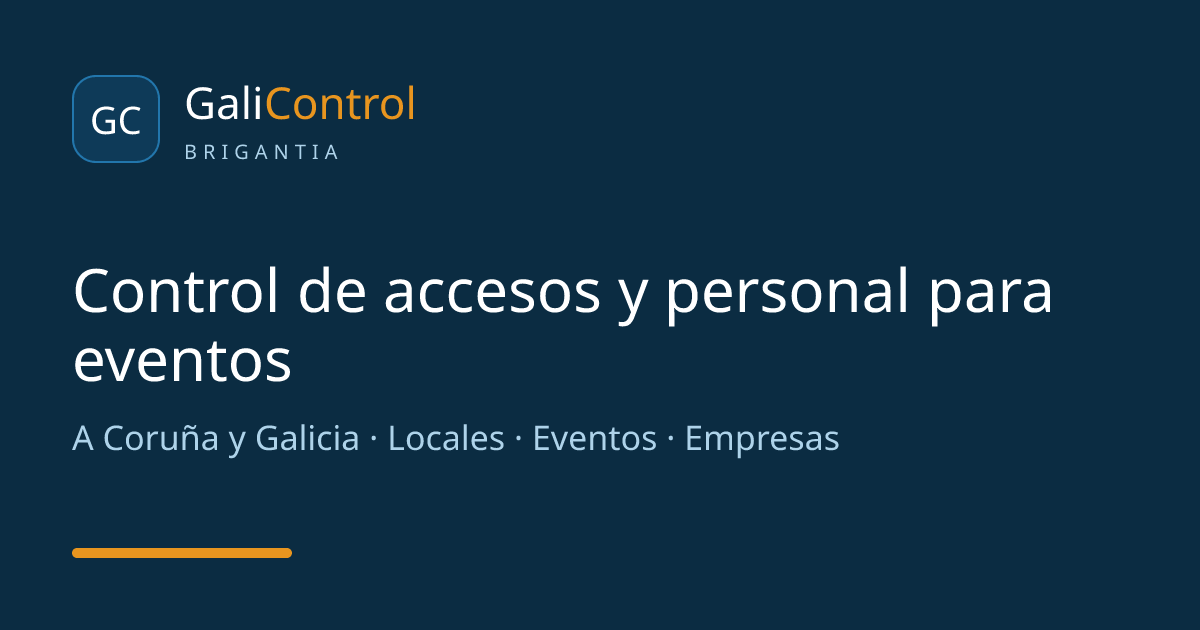
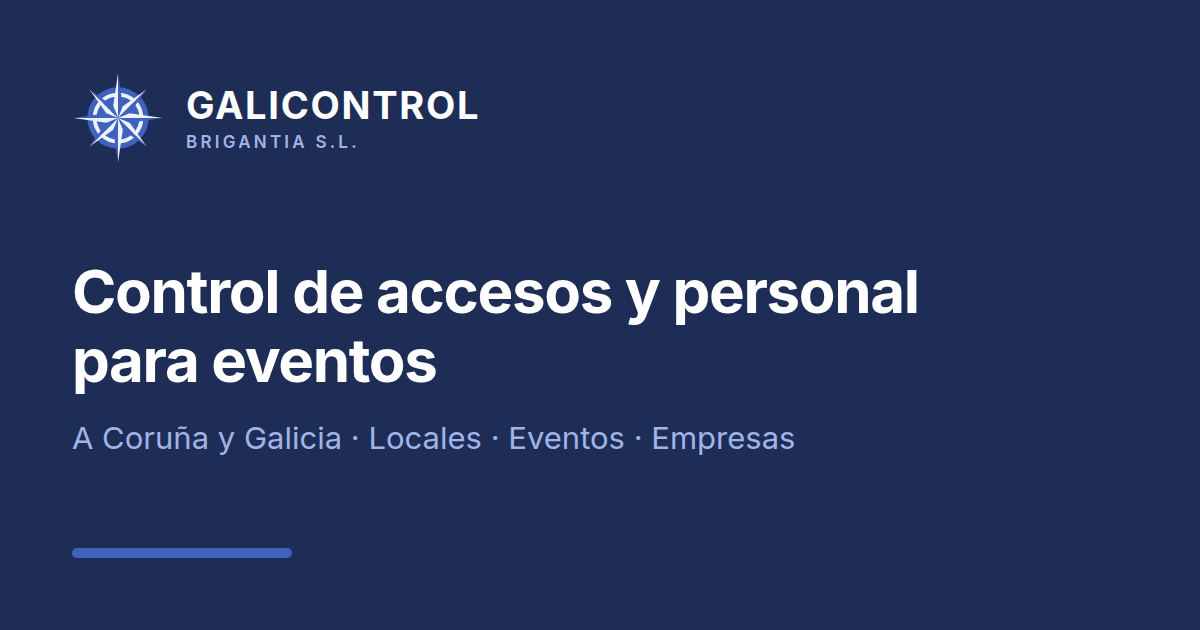
Integrar la identidad real de la marca y el teléfono de contacto
- Rosa de los vientos del logotipo redibujada como SVG en línea: nítida a
  cualquier tamaño, válida sobre fondo claro y oscuro y sin peticiones extra.
  También disponible suelta en public/logo-marca.svg y como favicon.
- Paleta reconstruida a partir del azul del logotipo (#3F62BE). El ámbar queda
  como acento funcional en el botón de envío y el CTA del menú móvil, marcado
  como tal para poder eliminarlo con un solo cambio.
- Teléfono y WhatsApp reales (+34 626 58 81 72) como valores por defecto, de
  modo que la web funciona sin configurar nada en Vercel.
- Imagen de compartir regenerada con la marca definitiva.
- Soporte para la verificación de Google Search Console por variable de
  entorno; si está vacía no se imprime nada en el HTML.
- Contraste: verde de WhatsApp de #128C7E a #0F7A6D (4.14:1 -> 5.22:1) y
  antetítulos de brand-500 a brand-600 para cumplir AA también sobre fondo
  azul claro.

Claude-Session: https://claude.ai/code/session_01E8BbFr5m9gUPfGNd7GGnMh

diff --git a/src/components/Logo.tsx b/src/components/Logo.tsx
@@ -3,19 +3,49 @@ import Link from "next/link";
 import { site } from "@/config/site";
 
 /**
- * LOGO DE GALICONTROL
+ * LOGO DE GALICONTROL BRIGANTIA
  * ---------------------------------------------------------------------------
- * Marca provisional construida con HTML+CSS para que se vea nítida en
- * cualquier pantalla mientras no esté disponible el archivo original.
+ * La rosa de los vientos es el isotipo de la marca, redibujado como SVG en
+ * línea: se ve nítido a cualquier tamaño, funciona sobre fondo claro y oscuro
+ * y no genera ninguna petición extra (importa para el LCP de la portada).
  *
- * PARA PONER EL LOGO REAL:
- *   1. Copia el archivo a `public/logo.svg` (o .png).
- *   2. Sustituye el contenido de <LogoMark /> por:
- *        <Image src="/logo.svg" alt="GaliControl Brigantia" width={200}
- *               height={48} priority className="h-10 w-auto" />
- *      importando `Image` desde "next/image".
- * El resto de la web no necesita ningún cambio.
+ * Si en algún momento se dispone del logotipo horizontal original en SVG o PNG
+ * con fondo transparente, basta con dejarlo en `public/logo.svg` y sustituir el
+ * contenido de <LogoMark /> por:
+ *   <Image src="/logo.svg" alt="GaliControl Brigantia" width={220} height={48}
+ *          priority className="h-11 w-auto" />
+ * (importando `Image` desde "next/image"). El resto de la web no cambia.
+ *
+ * Los colores salen de los tokens `--color-brand-*` de globals.css, tomados
+ * del propio logo.
  */
+
+const MARK_LIGHT = "M60.00 2.00L53.69 44.76L60.00 60.00ZM97.48 22.52L66.31 44.76L60.00 60.00ZM118.00 60.00L75.24 53.69L60.00 60.00ZM97.48 97.48L75.24 66.31L60.00 60.00ZM60.00 118.00L66.31 75.24L60.00 60.00ZM22.52 97.48L53.69 75.24L60.00 60.00ZM2.00 60.00L44.76 66.31L60.00 60.00ZM22.52 22.52L44.76 53.69L60.00 60.00Z";
+const MARK_BLUE = "M60.00 2.00L66.31 44.76L60.00 60.00ZM97.48 22.52L75.24 53.69L60.00 60.00ZM118.00 60.00L75.24 66.31L60.00 60.00ZM97.48 97.48L66.31 75.24L60.00 60.00ZM60.00 118.00L53.69 75.24L60.00 60.00ZM22.52 97.48L44.76 66.31L60.00 60.00ZM2.00 60.00L44.76 53.69L60.00 60.00ZM22.52 22.52L53.69 44.76L60.00 60.00Z";
+
+/** Rosa de los vientos de la marca. */
+export function CompassMark({ className = "" }: { className?: string }) {
+  return (
+    <svg
+      viewBox="0 0 120 120"
+      aria-hidden="true"
+      focusable="false"
+      className={className}
+    >
+      <circle cx="60" cy="60" r="40.00" fill="var(--color-brand-600)" />
+      <circle
+        cx="60"
+        cy="60"
+        r="30.50"
+        fill="none"
+        stroke="var(--color-brand-50)"
+        strokeWidth="5.00"
+      />
+      <path d={MARK_LIGHT} fill="var(--color-brand-50)" />
+      <path d={MARK_BLUE} fill="var(--color-brand-600)" />
+    </svg>
+  );
+}
 
 type LogoProps = {
   /** Variante de color: sobre fondo claro u oscuro. */
@@ -24,25 +54,22 @@ type LogoProps = {
 };
 
 export function LogoMark({ tone = "light", className = "" }: LogoProps) {
-  const wordColor = tone === "dark" ? "text-white" : "text-brand-800";
-  const subColor = tone === "dark" ? "text-brand-200" : "text-brand-600";
+  const wordColor = tone === "dark" ? "text-white" : "text-brand-900";
+  const subColor = tone === "dark" ? "text-brand-300" : "text-brand-600";
 
   return (
     <span className={`inline-flex items-center gap-2.5 ${className}`}>
-      <span
-        aria-hidden="true"
-        className="grid h-10 w-10 shrink-0 place-items-center rounded-xl bg-brand-800 text-[0.95rem] font-bold tracking-tight text-white shadow-sm"
-      >
-        GC
-      </span>
+      <CompassMark className="h-11 w-11 shrink-0" />
       <span className="flex flex-col leading-none">
-        <span className={`text-lg font-bold tracking-tight ${wordColor}`}>
-          Gali<span className="text-accent-500">Control</span>
+        <span
+          className={`text-[1.05rem] font-bold uppercase tracking-[0.045em] sm:text-[1.15rem] ${wordColor}`}
+        >
+          Galicontrol
         </span>
         <span
-          className={`mt-1 text-[0.6rem] font-semibold uppercase tracking-[0.18em] ${subColor}`}
+          className={`mt-1.5 text-[0.58rem] font-semibold uppercase tracking-[0.19em] ${subColor}`}
         >
-          Brigantia
+          Brigantia S.L.
         </span>
       </span>
     </span>

diff --git a/src/config/site.ts b/src/config/site.ts
@@ -18,10 +18,9 @@ export function isPending(value: string | undefined | null): boolean {
 }
 
 /** Teléfono en formato internacional sin espacios: +34XXXXXXXXX */
-const phoneE164 = process.env.NEXT_PUBLIC_PHONE ?? "PENDIENTE_TELEFONO";
+const phoneE164 = process.env.NEXT_PUBLIC_PHONE ?? "+34626588172";
 /** WhatsApp en formato wa.me: solo dígitos con prefijo país, p.ej. 34600000000 */
-const whatsappNumber =
-  process.env.NEXT_PUBLIC_WHATSAPP ?? "PENDIENTE_WHATSAPP";
+const whatsappNumber = process.env.NEXT_PUBLIC_WHATSAPP ?? "34626588172";
 const email = process.env.NEXT_PUBLIC_EMAIL ?? "PENDIENTE_EMAIL";
 const siteUrl = (
   process.env.NEXT_PUBLIC_SITE_URL ?? "https://galicontrolbrigantia.es"
@@ -44,7 +43,7 @@ export const site = {
   /** Razón social (facturación y avisos legales). */
   legalName: "GALICONTROL BRIGANTIA SL",
   /** CIF: pendiente de facilitar. Se muestra en el aviso legal cuando exista. */
-  taxId: "PENDIENTE_CIF",
+  taxId: process.env.NEXT_PUBLIC_TAX_ID ?? "PENDIENTE_CIF",
 
   tagline:
     "Control de accesos y personal auxiliar para eventos, locales y empresas en A Coruña y Galicia.",
@@ -93,6 +92,14 @@ export const site = {
 export const socialProfiles: string[] = Object.values(site.social).filter(
   (v) => !isPending(v),
 );
+
+/**
+ * Código de verificación de Google Search Console (la cadena de la etiqueta
+ * `google-site-verification`, no la etiqueta entera). Se define en Vercel como
+ * NEXT_PUBLIC_GSC_VERIFICATION. Si está vacío no se imprime nada.
+ */
+export const googleSiteVerification =
+  process.env.NEXT_PUBLIC_GSC_VERIFICATION ?? "";
 
 export const hasPhone = !isPending(site.contact.phone);
 export const hasWhatsapp = !isPending(site.contact.whatsapp);

diff --git a/src/app/globals.css b/src/app/globals.css
@@ -3,23 +3,27 @@
 /*
  * PALETA CORPORATIVA
  * -------------------------------------------------------------------------
- * Estos valores son la identidad provisional de GaliControl mientras no se
- * incorpore la paleta exacta del logo original. Para cambiar los colores de
- * TODA la web basta con editar los tokens de este bloque.
+ * Escala construida a partir del azul del logotipo de GaliControl. Para
+ * cambiar los colores de TODA la web basta con editar los tokens de este
+ * bloque: ningún componente define colores de marca por su cuenta.
  */
 @theme {
-  --color-brand-50: #eef6fb;
-  --color-brand-100: #d7e9f5;
-  --color-brand-200: #aed3ea;
-  --color-brand-300: #7ab5da;
-  --color-brand-400: #4794c6;
-  --color-brand-500: #2276ac;
-  --color-brand-600: #175d8c;
-  --color-brand-700: #124a70;
-  --color-brand-800: #0e3a58;
-  --color-brand-900: #0b2c42;
-  --color-brand-950: #071c2b;
+  /* Azul del logotipo de GaliControl (#3F62BE) y su escala derivada. */
+  --color-brand-50: #f2f5fd;
+  --color-brand-100: #e3e9fa;
+  --color-brand-200: #c8d4f3;
+  --color-brand-300: #a0b4e8;
+  --color-brand-400: #748fd6;
+  --color-brand-500: #506cc7;
+  --color-brand-600: #3f62be;
+  --color-brand-700: #34509d;
+  --color-brand-800: #2b407a;
+  --color-brand-900: #1e2d55;
+  --color-brand-950: #121b34;
 
+  /* Acento cálido. No pertenece al logotipo: se usa solo en el botón de
+     envío y en el CTA del menú móvil, donde el contraste mejora la
+     conversión. Para eliminarlo, iguala estos tokens a los de brand. */
   --color-accent-100: #fdefd6;
   --color-accent-200: #fadfae;
   --color-accent-300: #f7c877;

diff --git a/src/app/presupuesto/page.tsx b/src/app/presupuesto/page.tsx
@@ -111,7 +111,7 @@ export default async function PresupuestoPage({
                 <li className="flex items-start gap-3">
                   <PhoneCall
                     aria-hidden="true"
-                    className="mt-0.5 h-5 w-5 shrink-0 text-brand-500"
+                    className="mt-0.5 h-5 w-5 shrink-0 text-brand-600"
                   />
                   <span>
                     Te contactamos para concretar los detalles que falten.
@@ -120,7 +120,7 @@ export default async function PresupuestoPage({
                 <li className="flex items-start gap-3">
                   <Clock
                     aria-hidden="true"
-                    className="mt-0.5 h-5 w-5 shrink-0 text-brand-500"
+                    className="mt-0.5 h-5 w-5 shrink-0 text-brand-600"
                   />
                   <span>
                     Te enviamos el presupuesto con las horas incluidas y las
@@ -130,7 +130,7 @@ export default async function PresupuestoPage({
                 <li className="flex items-start gap-3">
                   <ShieldCheck
                     aria-hidden="true"
-                    className="mt-0.5 h-5 w-5 shrink-0 text-brand-500"
+                    className="mt-0.5 h-5 w-5 shrink-0 text-brand-600"
                   />
                   <span>
                     Si tu caso requiere seguridad privada, te lo decimos con

diff --git a/src/components/ui.tsx b/src/components/ui.tsx
@@ -52,7 +52,7 @@ export function SectionHeading({
       {eyebrow ? (
         <p
           className={`mb-3 text-xs font-bold uppercase tracking-[0.16em] ${
-            tone === "light" ? "text-accent-400" : "text-brand-500"
+            tone === "light" ? "text-accent-400" : "text-brand-600"
           }`}
         >
           {eyebrow}
@@ -137,7 +137,7 @@ export function CheckList({
           <Check
             aria-hidden="true"
             className={`mt-1 h-4 w-4 shrink-0 ${
-              tone === "light" ? "text-accent-400" : "text-brand-500"
+              tone === "light" ? "text-accent-400" : "text-brand-600"
             }`}
           />
           <span>{item}</span>

diff --git a/src/app/layout.tsx b/src/app/layout.tsx
@@ -8,7 +8,7 @@ import { Footer } from "@/components/Footer";
 import { Header } from "@/components/Header";
 import { JsonLd } from "@/components/JsonLd";
 import { MobileCtaBar } from "@/components/MobileCtaBar";
-import { site } from "@/config/site";
+import { googleSiteVerification, site } from "@/config/site";
 import {
   localBusinessJsonLd,
   organizationJsonLd,
@@ -45,6 +45,9 @@ export const metadata: Metadata = {
     images: [ogImage],
   },
   twitter: { card: "summary_large_image", images: [ogImage.url] },
+  ...(googleSiteVerification
+    ? { verification: { google: googleSiteVerification } }
+    : {}),
   robots: {
     index: true,
     follow: true,

diff --git a/src/components/ContactButtons.tsx b/src/components/ContactButtons.tsx
@@ -72,10 +72,10 @@ export function WhatsappButton({
 
   const styles =
     variant === "solid"
-      ? "bg-[#128C7E] text-white hover:bg-[#0e6f64]"
+      ? "bg-[#0F7A6D] text-white hover:bg-[#0B6158]"
       : variant === "outline"
-        ? "border-2 border-[#128C7E] text-[#0b5a52] hover:bg-[#128C7E]/10"
-        : "bg-[#128C7E] text-white hover:bg-[#0e6f64]";
+        ? "border-2 border-[#0F7A6D] text-[#08514a] hover:bg-[#0F7A6D]/10"
+        : "bg-[#0F7A6D] text-white hover:bg-[#0B6158]";
 
   return (
     <a

diff --git a/src/app/not-found.tsx b/src/app/not-found.tsx
@@ -11,7 +11,7 @@ export const metadata: Metadata = {
 export default function NotFound() {
   return (
     <section className="container-page py-16 lg:py-24">
-      <p className="text-xs font-bold uppercase tracking-[0.16em] text-brand-500">
+      <p className="text-xs font-bold uppercase tracking-[0.16em] text-brand-600">
         Error 404
       </p>
       <h1 className="mt-3 max-w-2xl text-[1.85rem] font-bold leading-tight text-brand-900 sm:text-4xl">

diff --git a/src/app/control-accesos-vs-vigilante-seguridad/page.tsx b/src/app/control-accesos-vs-vigilante-seguridad/page.tsx
@@ -64,7 +64,7 @@ export default function ComparativaPage() {
       <Breadcrumbs items={crumbs} />
 
       <Section>
-        <p className="mb-3 text-xs font-bold uppercase tracking-[0.16em] text-brand-500">
+        <p className="mb-3 text-xs font-bold uppercase tracking-[0.16em] text-brand-600">
           Información
         </p>
         <h1 className="max-w-3xl text-[1.85rem] font-bold leading-[1.15] text-brand-900 sm:text-4xl">

diff --git a/src/app/preguntas-frecuentes/page.tsx b/src/app/preguntas-frecuentes/page.tsx
@@ -29,7 +29,7 @@ export default function FaqPage() {
       <Breadcrumbs items={crumbs} />
 
       <Section>
-        <p className="mb-3 text-xs font-bold uppercase tracking-[0.16em] text-brand-500">
+        <p className="mb-3 text-xs font-bold uppercase tracking-[0.16em] text-brand-600">
           FAQs
         </p>
         <h1 className="max-w-3xl text-[1.85rem] font-bold leading-[1.15] text-brand-900 sm:text-4xl">

diff --git a/src/components/BudgetForm.tsx b/src/components/BudgetForm.tsx
@@ -62,7 +62,7 @@ export function BudgetForm({
       <div className="rounded-2xl border border-brand-200 bg-brand-50 p-7 lg:p-9">
         <CheckCircle2
           aria-hidden="true"
-          className="h-10 w-10 text-[#128C7E]"
+          className="h-10 w-10 text-[#0F7A6D]"
         />
         <h2 className="mt-4 text-2xl font-bold text-brand-900">
           Solicitud enviada

diff --git a/README.md b/README.md
@@ -29,26 +29,25 @@ npm start           # sirve el build
 
 ## 2. ⚠ Datos pendientes antes de publicar
 
-Estos valores son **placeholders**, no datos reales. Sustitúyelos:
+Ya configurados: teléfono y WhatsApp (**+34 626 58 81 72**), logotipo, colores
+corporativos y dirección.
 
-| Dato | Dónde | Valor actual |
+Siguen pendientes:
+
+| Dato | Dónde | Estado |
 | --- | --- | --- |
-| Teléfono | `NEXT_PUBLIC_PHONE` | `PENDIENTE_TELEFONO` |
-| WhatsApp | `NEXT_PUBLIC_WHATSAPP` | `PENDIENTE_WHATSAPP` |
-| Email | `NEXT_PUBLIC_EMAIL` | `PENDIENTE_EMAIL` |
-| Dominio | `NEXT_PUBLIC_SITE_URL` | `https://galicontrolbrigantia.es` |
-| CIF | `src/config/site.ts` → `taxId` | `PENDIENTE_CIF` |
+| Email de contacto | `NEXT_PUBLIC_EMAIL` | `PENDIENTE_EMAIL` |
+| Buzón que recibe los formularios | `LEADS_EMAIL` | sin definir |
+| Claves de Resend | `RESEND_API_KEY`, `FROM_EMAIL` | sin definir |
+| Dominio definitivo | `NEXT_PUBLIC_SITE_URL` | `galicontrolbrigantia.es` (provisional) |
+| CIF | `NEXT_PUBLIC_TAX_ID` | `PENDIENTE_CIF` |
 | Redes sociales | `NEXT_PUBLIC_INSTAGRAM`, etc. | sin definir |
-| Logotipo | `src/components/Logo.tsx` | marca provisional en HTML/CSS |
-| Colores | `src/app/globals.css` (bloque `@theme`) | paleta provisional |
-| Fotografías | `public/` + componente `<Photo />` | huecos con marcador |
+| Verificación de Search Console | `NEXT_PUBLIC_GSC_VERIFICATION` | sin definir |
+| Fotografías reales | `public/` + componente `<Photo />` | huecos con marcador |
 
 Mientras un dato siga en `PENDIENTE_*`, la web **no lo publica en los datos
-estructurados (JSON-LD)**, para no dar información falsa a Google. Los botones
-de llamar y WhatsApp siguen visibles, pero apuntan a un número vacío: son
-inservibles hasta que configures el teléfono.
-
----
+estructurados (JSON-LD)** ni en el aviso legal, para no dar información falsa.
+El email es el único dato de contacto que hoy aparece vacío en el footer.
 
 ## 3. Dónde cambiar cada cosa
 
@@ -85,14 +84,23 @@ el bloque resumido de la portada y el JSON-LD `FAQPage`. Para que una pregunta
 salga también en la portada, añade su texto exacto a `homeFaqQuestions`.
 
 ### Logotipo
-`src/components/Logo.tsx` contiene una marca provisional hecha con HTML y CSS.
-Para poner el logo real: copia el archivo a `public/logo.svg` y sustituye el
-contenido de `<LogoMark />` por un `<Image src="/logo.svg" … />` (las
-instrucciones están comentadas en el propio archivo). No hay que tocar nada más.
+`src/components/Logo.tsx`. La rosa de los vientos de la marca está redibujada
+como SVG en línea: se ve nítida a cualquier tamaño, funciona sobre fondo claro
+y oscuro y no genera ninguna petición extra. También está suelta en
+`public/logo-marca.svg` y como favicon en `src/app/icon.svg`.
+
+El logotipo (la palabra «GALICONTROL») está compuesto con la tipografía de la
+web, no con la tipografía celta del logo original. Si consigues el lockup
+horizontal en SVG o PNG con fondo transparente, déjalo en `public/logo.svg` y
+sustituye el contenido de `<LogoMark />` por un `<Image src="/logo.svg" … />`:
+las instrucciones exactas están comentadas en el propio archivo.
 
 ### Colores corporativos
-`src/app/globals.css`, bloque `@theme`. Cambiando los tokens `--color-brand-*`
-y `--color-accent-*` cambia el color de toda la web.
+`src/app/globals.css`, bloque `@theme`. La escala `--color-brand-*` sale del
+azul del logotipo (`#3F62BE`). El `--color-accent-*` (ámbar) **no pertenece al
+logo**: es un acento funcional que se usa solo en el botón de envío del
+formulario y en el CTA del menú móvil. Para eliminarlo, iguala esos tokens a
+los de `brand`.
 
 ### Fotografías
 El componente `<Photo />` (`src/components/Photo.tsx`) muestra un marcador con
@@ -111,6 +119,12 @@ El diseño no se rompe: el hueco ya está reservado.
 ### Aviso para buscadores IA
 `public/llms.txt`. Si cambia el dominio, actualiza también las URLs de ese
 archivo (es estático y no lee la configuración).
+
+### Google Search Console
+Da de alta el dominio en Search Console, elige la verificación por etiqueta
+HTML y copia **solo el valor** del atributo `content` en la variable
+`NEXT_PUBLIC_GSC_VERIFICATION`. Tras el redeploy, pulsa «Verificar» y envía
+`https://tudominio/sitemap.xml`.
 
 ### Año del aviso de copyright
 `src/components/Footer.tsx` → constante `year`.
